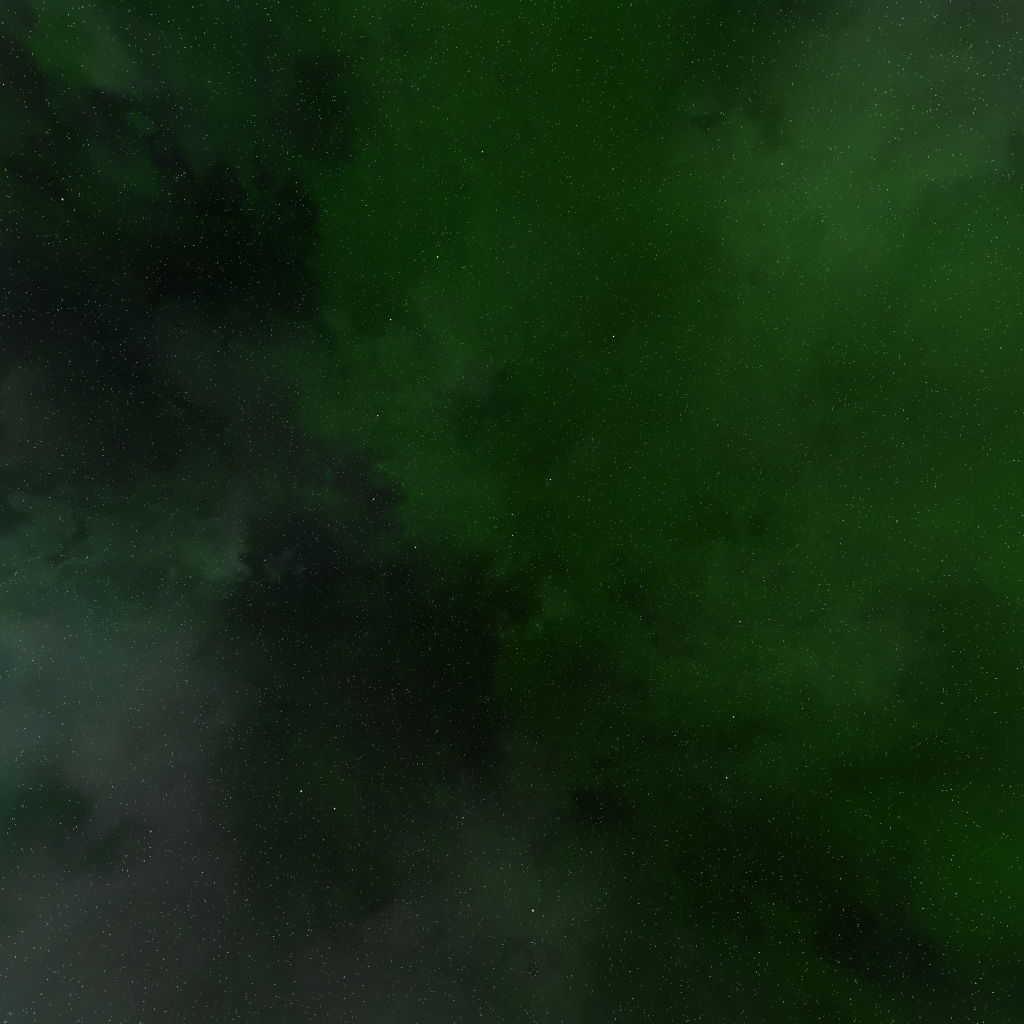
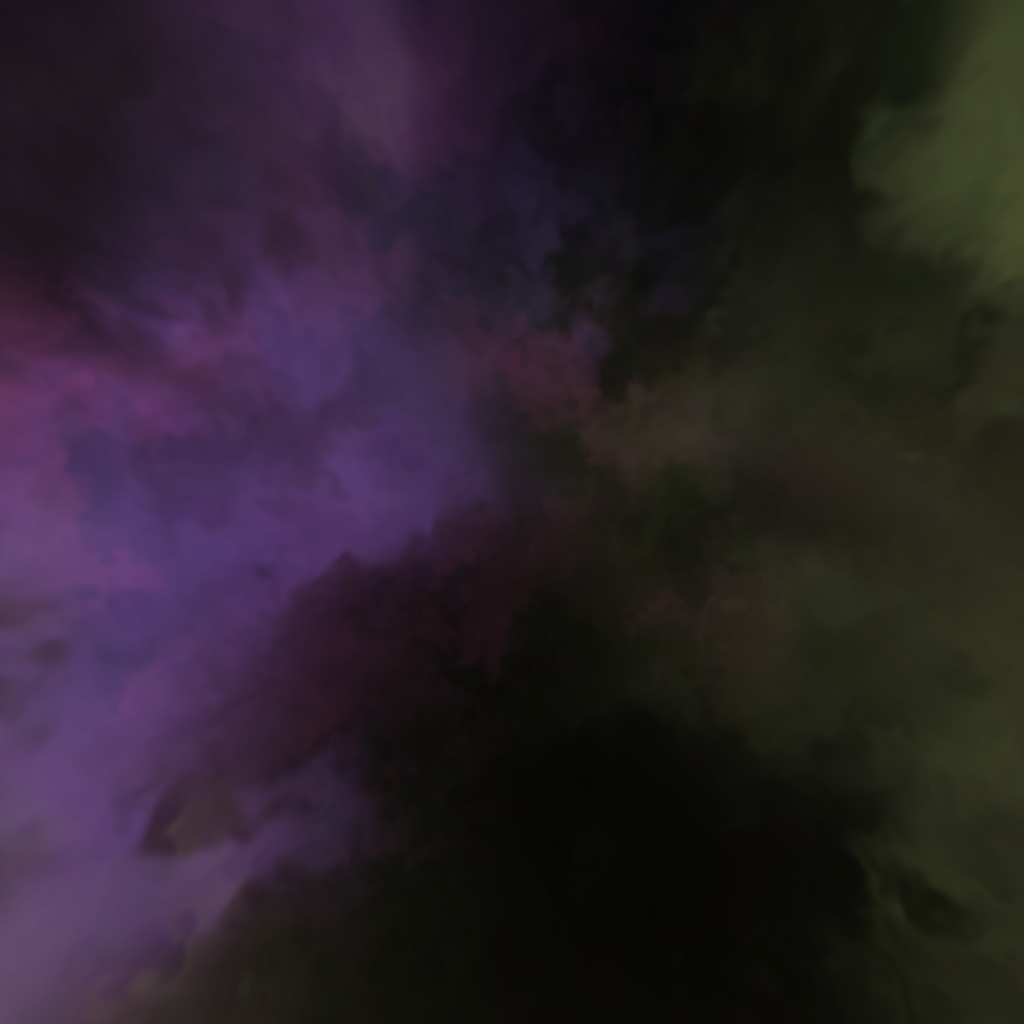
Added CLUT

diff --git a/Program.cs b/Program.cs
@@ -26,6 +26,7 @@ class Program
 
     private int vignette = 1;
     private int aberration = 1;
+    private int togglelut = 1;
 
     public Program(Surface screen)
     {
@@ -44,7 +45,7 @@ class Program
         // normal textures
         brickNormal = new Texture("../../../assets/textures/brick_normal.jpg");
         // lut
-        lut = new Texture("../../../assets/textures/PAINLUT.png");
+        lut = new Texture("../../../assets/textures/LUT.png");
 
         // meshes
         Matrix4 floorMatrix = Matrix4.CreateScale(new Vector3(1.5f, 0.5f, 1.5f)) * Matrix4.CreateRotationZ(75.0f);
@@ -92,15 +93,17 @@ class Program
             node2.Render(main, teapot!.AffineTransformation, view, projection);
         }
 
+       
+        // render quad
+        target.Unbind();
+        if (postproc != null)
+            quad!.Render(postproc, target.GetTextureID());
+        
         //LUT
         GL.ActiveTexture(TextureUnit.Texture4);
         GL.BindTexture(TextureTarget.Texture2D, lut!.ID);
         GL.Uniform1(GL.GetUniformLocation(postproc!.ProgramID, "lut"), 4);
 
-        // render quad
-        target.Unbind();
-        if (postproc != null)
-            quad!.Render(postproc, target.GetTextureID());
     }
 
     // Separated code to tidy up the RenderGL method.
@@ -139,6 +142,12 @@ class Program
             postproc.SetInt("applyVignette", vignette);
             vignette = vignette == 1 ? 0 : 1;
             aberration = aberration == 1 ? 0 : 1;
+        }
+
+        if (kea.Key == Keys.X)
+        {
+            postproc.SetInt("toggleLUT", togglelut);
+            togglelut = togglelut == 1 ? 0 : 1;
         }
     }
 }

diff --git a/SceneNode.cs b/SceneNode.cs
@@ -2,6 +2,13 @@ using OpenTK.Mathematics;
 
 namespace Rasterization;
 
+public class SceneGraph
+{
+    public void Render(SceneNode n, Shader s, Matrix4 pt, Matrix4 wc, Matrix4 cs)
+    {
+        n.Render(s,pt,wc,cs);
+    }
+}
 public class SceneNode
 {
     public Mesh Mesh { get; set; }
